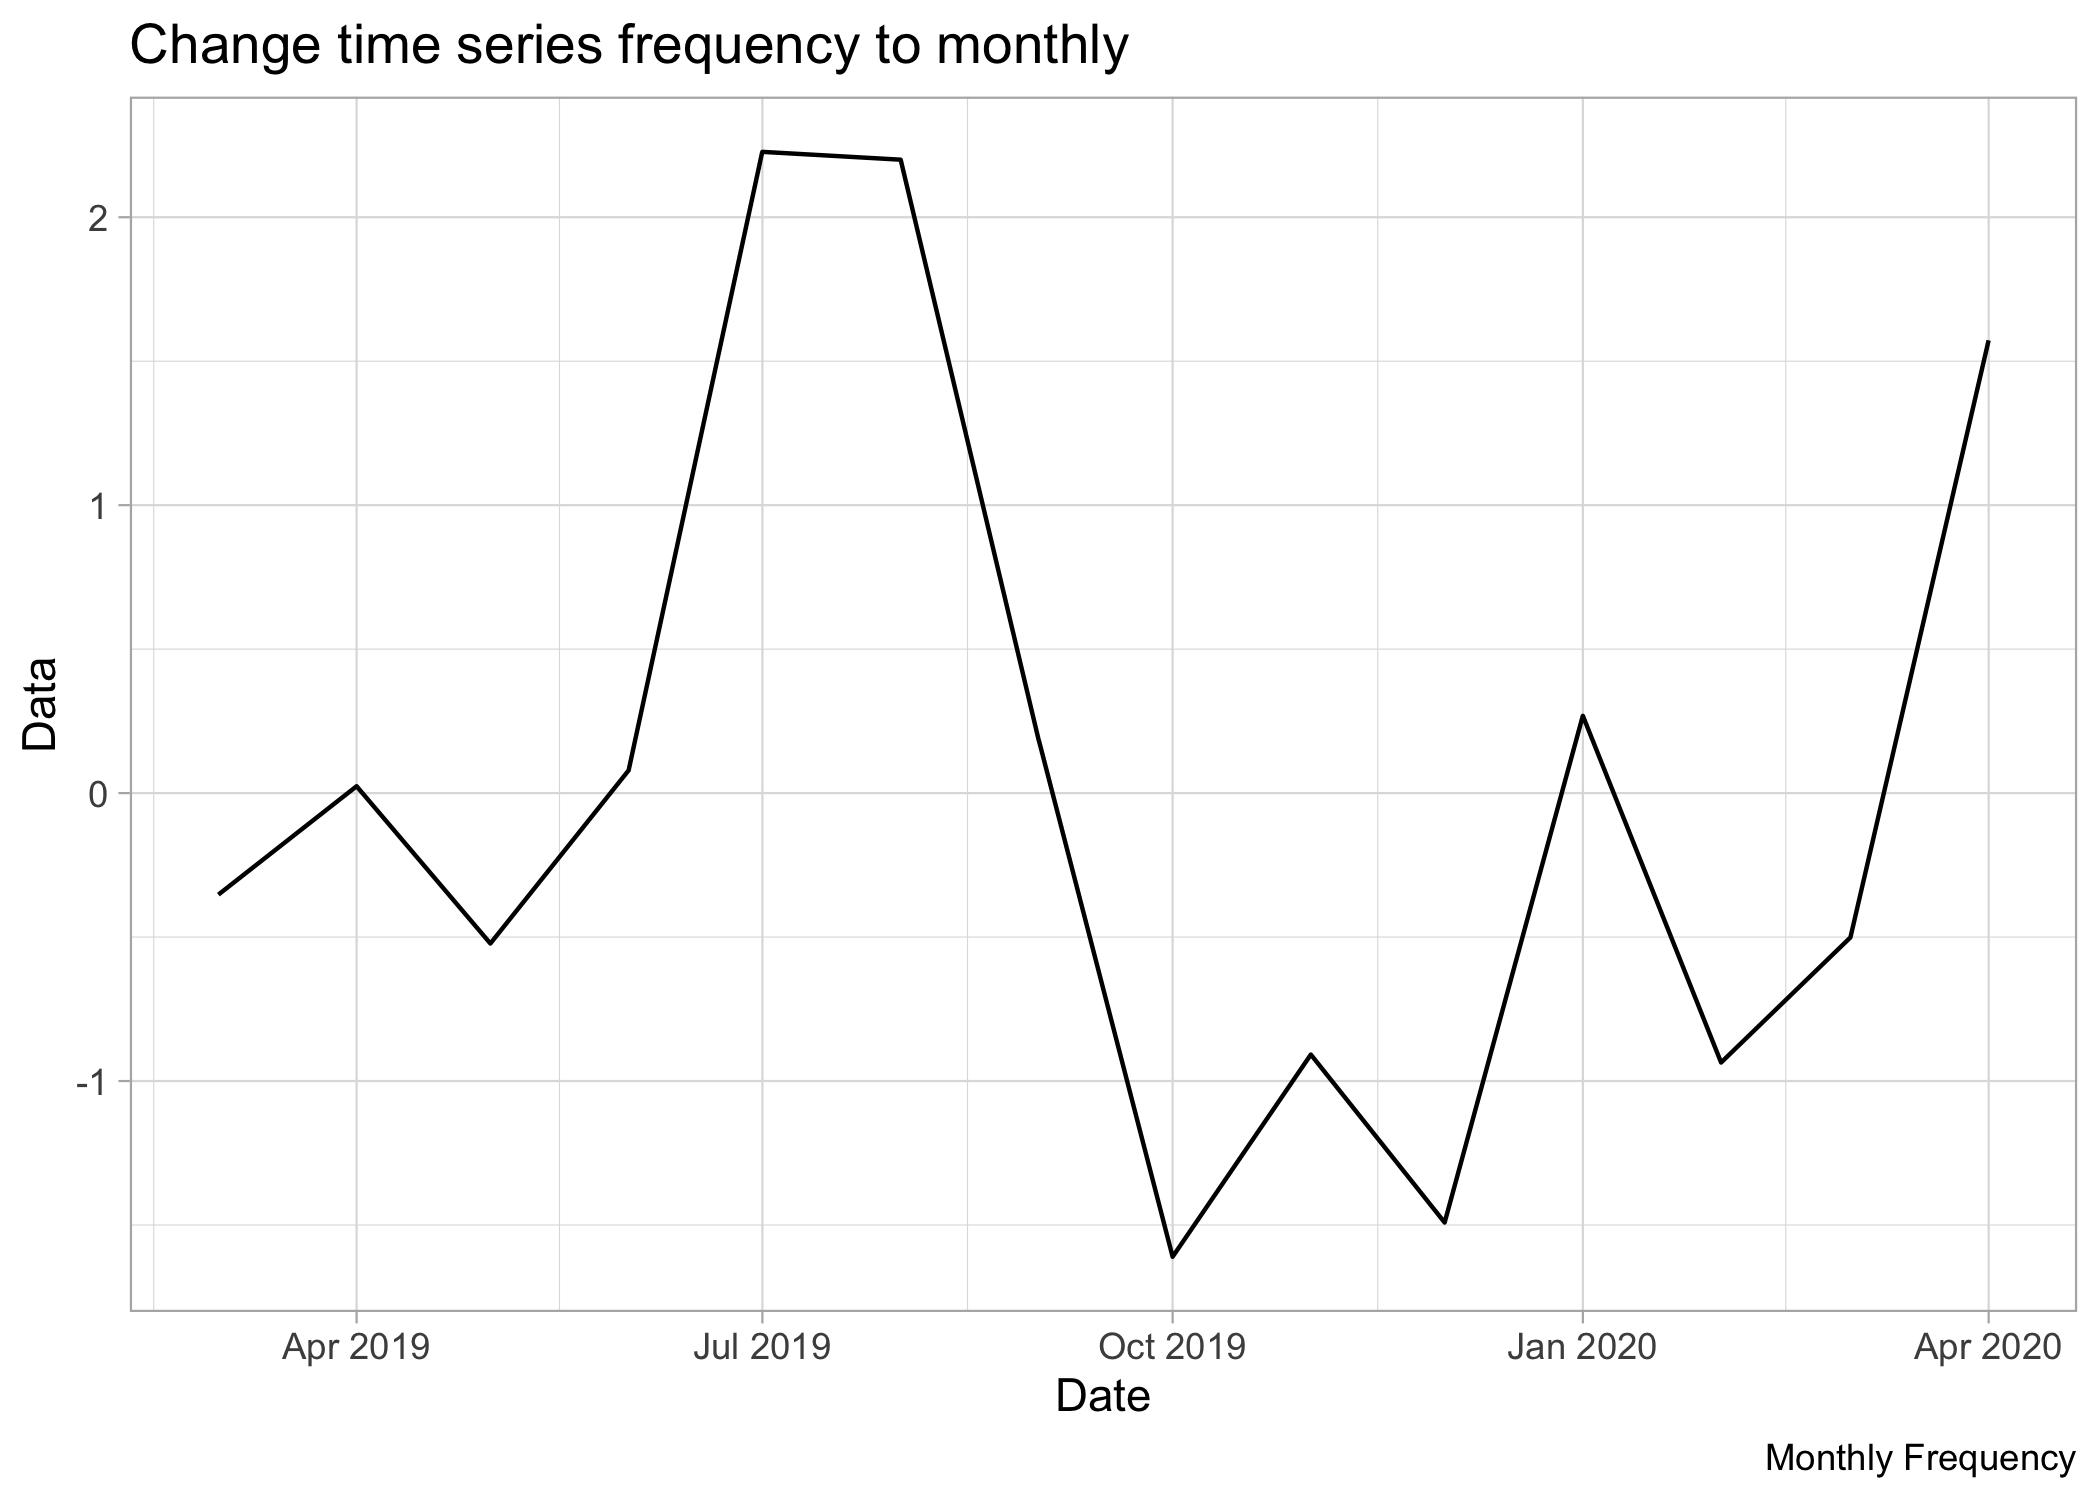
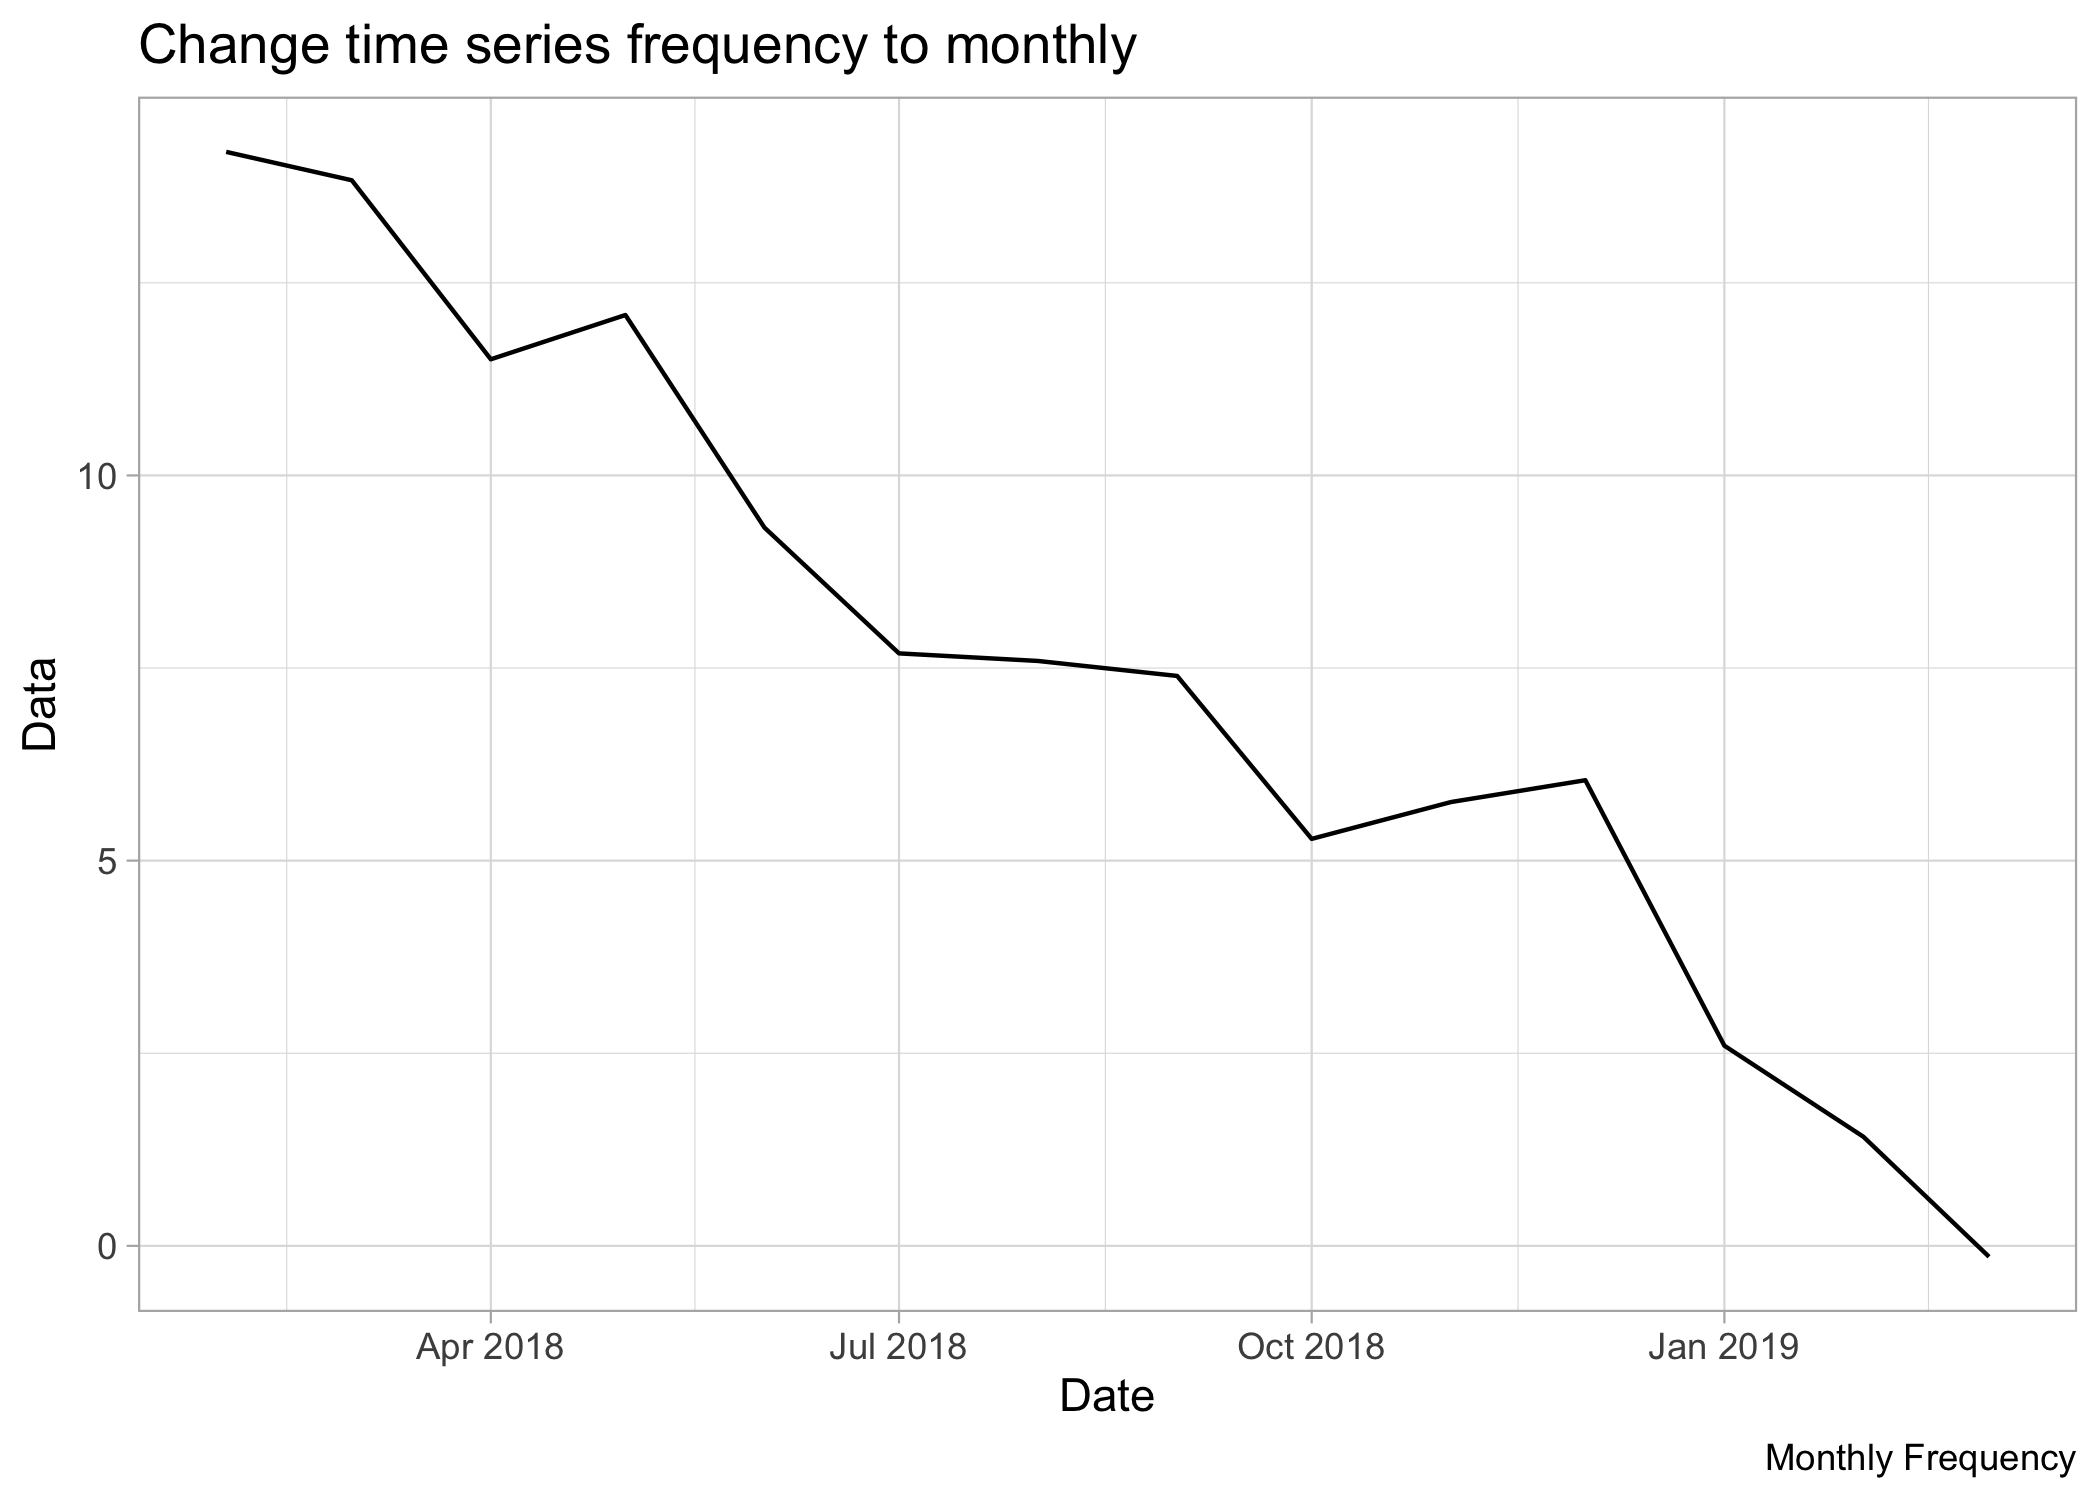
Update Files

diff --git a/Lubridate.md b/Lubridate.md
@@ -107,7 +107,7 @@ hour(d_this_moment)
 ```
 
 ```
-## [1] 1
+## [1] 21
 ```
 
 ```r
@@ -115,7 +115,7 @@ minute(d_this_moment)
 ```
 
 ```
-## [1] 58
+## [1] 27
 ```
 
 ```r
@@ -123,7 +123,7 @@ second(d_this_moment)
 ```
 
 ```
-## [1] 4.92336
+## [1] 20.61482
 ```
 
 ## Time intervals
@@ -222,33 +222,34 @@ length(k3)
 ## Create some Time series Data
 
 ```r
-create_data <- data.frame(Date = k3)
+create_data <- tibble(Date = k3,
+                      Values = rnorm(length(k3)))
+
 class(create_data)
 ```
 
 ```
-## [1] "data.frame"
+## [1] "tbl_df"     "tbl"        "data.frame"
 ```
 
 ```r
-create_data <- create_data %>%
-  mutate(Values = rnorm(length(k3)))
-
 head(create_data, 10)
 ```
 
 ```
-##          Date      Values
-## 1  1920-03-26  0.92132217
-## 2  1921-03-26 -0.48954728
-## 3  1922-03-26  0.24892551
-## 4  1923-03-26 -0.02794032
-## 5  1924-03-26 -0.53487064
-## 6  1925-03-26 -0.23289271
-## 7  1926-03-26 -0.99447128
-## 8  1927-03-26 -0.67611477
-## 9  1928-03-26 -0.85462114
-## 10 1929-03-26  0.46573355
+## # A tibble: 10 x 2
+##    Date       Values
+##    <date>      <dbl>
+##  1 1920-03-26  2.28 
+##  2 1921-03-26 -0.353
+##  3 1922-03-26  0.455
+##  4 1923-03-26  1.32 
+##  5 1924-03-26 -0.598
+##  6 1925-03-26  0.658
+##  7 1926-03-26  0.706
+##  8 1927-03-26 -2.55 
+##  9 1928-03-26  0.501
+## 10 1929-03-26  0.279
 ```
 
 ```r
@@ -278,9 +279,8 @@ timediff
 ```
 
 ```r
-datam <- data.frame(Date = date1 + days(timediff:0), 
+datam <- tibble(Date = date1 + days(0:timediff), 
                     Data = rnorm(timediff + 1))
-
 
 ggplot(datam, aes(Date, Data))+
   geom_line()+
@@ -290,7 +290,6 @@ ggplot(datam, aes(Date, Data))+
 ![](Lubridate_files/figure-html/unnamed-chunk-11-1.png)<!-- -->
 
 Observe that we add 1 to `timediff` variable when creating `Data` in data.frame to make the sizes compatible. The reason is as we explained before. The current date increases the number of days/months by 1.
-
 
 Instead, if we want to use `months(timediff:0)` we need to divide the difference and then use `ceiling()` function to convert it to an integer. The above graph can be obtained as given  below as well.
 
@@ -305,8 +304,16 @@ timediff2
 ```
 
 ```r
-datam2 <- data.frame(Date = date1 + months(timediff2:0), 
-                    Data = rnorm(timediff2 + 1))
+length(timediff2 + 1)
+```
+
+```
+## [1] 1
+```
+
+```r
+datam2 <- tibble(Date = date1 - months(0:timediff2), 
+                    Data =  1:length(rnorm(timediff2 + 1)) + rnorm(timediff2 + 1))
 
 ggplot(datam2, aes(Date, Data))+
   geom_line()+
@@ -317,8 +324,22 @@ ggplot(datam2, aes(Date, Data))+
 
 ![](Lubridate_files/figure-html/unnamed-chunk-12-1.png)<!-- -->
 
-In this case, we have changed the data frequency into monthly, therefore we have less frequent data. 
+In this case, we have changed the data frequency into monthly, therefore we have less frequent data. Also, we wanted to create a time series `trend` but we got quite the opposite. Why is that? This is exactly what we touched before. When we do `date1 - months(0:timediff2)` we have the current date first and past date et the end. But we need to reverse it. Therefore, `when we subtract dates` we need to reverse the order in `months(0:timediff2)`. More compactly, we should write `months(timediff2:0)`. The correct graph should be:
 
+
+
+```r
+datam3 <- tibble(Date = date1 - months(timediff2:0), 
+                    Data =  1:length(rnorm(timediff2 + 1)) + rnorm(timediff2 + 1))
+
+ggplot(datam3, aes(Date, Data))+
+  geom_line()+
+  theme_light()+
+  labs(title = "Change time series frequency to monthly",
+       caption = "Monthly Frequency")
+```
+
+![](Lubridate_files/figure-html/unnamed-chunk-13-1.png)<!-- -->
 
 
 # References 
